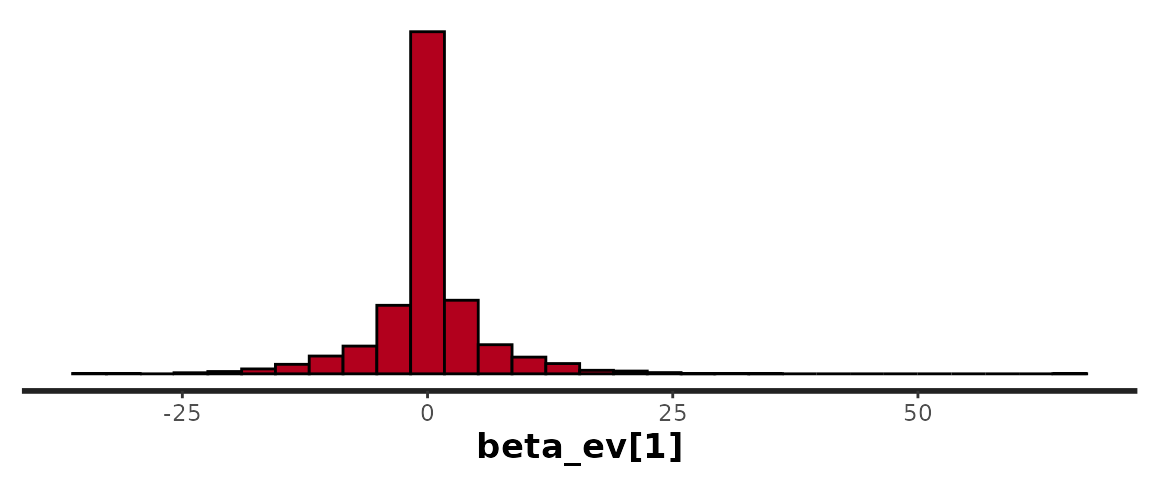
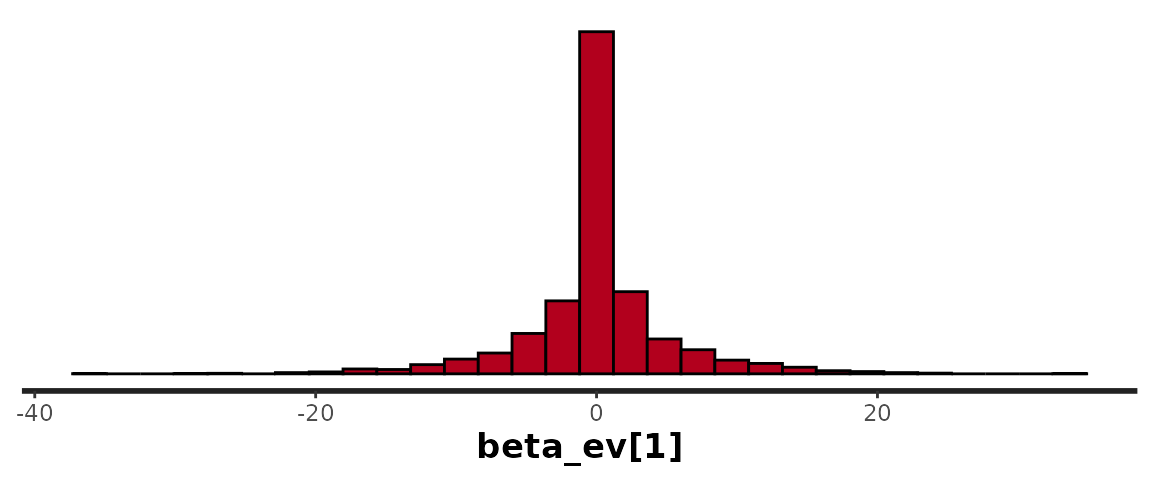
doc CAR

diff --git a/docs/reference/stan_car.html b/docs/reference/stan_car.html
@@ -47,7 +47,7 @@
 
 
 <meta property="og:title" content="Conditional auto-regressive (CAR) models — stan_car" />
-<meta property="og:description" content="Apply the CAR model as a prior on parameters." />
+<meta property="og:description" content="Apply the CAR model as a prior on parameters, or fit an auto Gaussian model." />
 <meta property="og:image" content="https://connordonegan.github.io/geostan/logo.png" />
 
 
@@ -147,7 +147,7 @@
     </div>
 
     <div class="ref-description">
-    <p>Apply the CAR model as a prior on parameters.</p>
+    <p>Apply the CAR model as a prior on parameters, or fit an auto Gaussian model.</p>
     </div>
 
     <pre class="usage"><span class='fu'>stan_car</span><span class='op'>(</span>
@@ -158,7 +158,8 @@
   ME <span class='op'>=</span> <span class='cn'>NULL</span>,
   <span class='va'>C</span>,
   D_diagonal <span class='op'>=</span> <span class='fu'><a href='https://rdrr.io/r/base/apply.html'>apply</a></span><span class='op'>(</span><span class='va'>C</span>, <span class='fl'>1</span>, <span class='kw'>function</span><span class='op'>(</span><span class='va'>r</span><span class='op'>)</span> <span class='fu'><a href='https://rdrr.io/r/base/sum.html'>sum</a></span><span class='op'>(</span><span class='va'>r</span> <span class='op'>&gt;</span> <span class='fl'>0</span><span class='op'>)</span><span class='op'>)</span>,
-  family <span class='op'>=</span> <span class='fu'><a href='https://rdrr.io/r/stats/family.html'>poisson</a></span><span class='op'>(</span><span class='op'>)</span>,
+  family <span class='op'>=</span> <span class='fu'><a href='https://rdrr.io/r/stats/family.html'>gaussian</a></span><span class='op'>(</span><span class='op'>)</span>,
+  invert <span class='op'>=</span> <span class='cn'>TRUE</span>,
   prior <span class='op'>=</span> <span class='cn'>NULL</span>,
   prior_intercept <span class='op'>=</span> <span class='cn'>NULL</span>,
   prior_tau <span class='op'>=</span> <span class='cn'>NULL</span>,
@@ -167,8 +168,8 @@
   scalex <span class='op'>=</span> <span class='cn'>FALSE</span>,
   prior_only <span class='op'>=</span> <span class='cn'>FALSE</span>,
   chains <span class='op'>=</span> <span class='fl'>5</span>,
-  iter <span class='op'>=</span> <span class='fl'>10000</span>,
-  refresh <span class='op'>=</span> <span class='fl'>2500</span>,
+  iter <span class='op'>=</span> <span class='fl'>4000</span>,
+  refresh <span class='op'>=</span> <span class='fl'>1000</span>,
   pars <span class='op'>=</span> <span class='cn'>NULL</span>,
   control <span class='op'>=</span> <span class='fu'><a href='https://rdrr.io/r/base/list.html'>list</a></span><span class='op'>(</span>adapt_delta <span class='op'>=</span> <span class='fl'>0.9</span>, max_treedepth <span class='op'>=</span> <span class='fl'>15</span><span class='op'>)</span>,
   silent <span class='op'>=</span> <span class='cn'>FALSE</span>,
@@ -202,13 +203,13 @@ If and when setting priors for <code>beta</code> manually, remember to include p
 <dt>se</dt><dd><p>a dataframe with standard errors for each observation; columns will be matched to the variables by column names. The names should match those from the output of <code><a href='https://rdrr.io/r/stats/model.matrix.html'>model.matrix(formula, data)</a></code>.</p></dd>
 <dt>bounded</dt><dd><p>If any variables in <code>se</code> are bounded within some range (e.g. percentages ranging from zero to one hundred) provide a vector of zeros and ones indicating which columns are bounded. By default the lower bound will be 0 and the upper bound 100, for percentages.</p></dd>
 <dt>bounds</dt><dd><p>A numeric vector of length two providing the upper and lower bounds, respectively, of any bounded variables.</p></dd>
-<dt>spatial</dt><dd><p>Logical value indicating whether an auto Gaussian (i.e., conditional autoregressive (CAR)) model should be used for the covariates. Defaults to <code>spatial = FALSE</code>. If <code>spatial = TRUE</code> you must provide a connectivity matrix <code>C</code>. The specification of the auto Gaussian model is fixed such that all non-zero values in <code>C</code> will be converted to ones.</p></dd>
+<dt>spatial</dt><dd><p>Logical value indicating whether an auto Gaussian (i.e., conditional autoregressive (CAR)) model should be used for the covariates. Defaults to <code>spatial = FALSE</code>. The specification of the auto Gaussian model is fixed such that any non-zero values in <code>C</code> will be converted to ones.</p></dd>
 
 </dl></td>
     </tr>
     <tr>
       <th>C</th>
-      <td><p>Binary spatial connectivity matrix. This is used for the CAR prior and to calculate residual spatial autocorrelation as well as any user specified <code>slx</code> terms (it will be row-standardized before calculating <code>slx</code> terms).</p></td>
+      <td><p>Spatial connectivity matrix. This is used for the CAR model and to calculate residual spatial autocorrelation as well as any user specified <code>slx</code> terms or spatial measurement error (ME) models. It will automatically be row-standardized before calculating <code>slx</code> terms.</p></td>
     </tr>
     <tr>
       <th>D_diagonal</th>
@@ -216,11 +217,15 @@ If and when setting priors for <code>beta</code> manually, remember to include p
     </tr>
     <tr>
       <th>family</th>
-      <td><p>The likelihood function for the outcome variable. Current options are <code><a href='https://rdrr.io/r/stats/family.html'>binomial(link = "logit")</a></code> and <code><a href='https://rdrr.io/r/stats/family.html'>poisson(link = "log")</a></code>.</p></td>
+      <td><p>The likelihood function for the outcome variable. Current options are <code><a href='https://rdrr.io/r/stats/family.html'>gaussian()</a></code>, <code><a href='https://rdrr.io/r/stats/family.html'>binomial(link = "logit")</a></code>, and <code><a href='https://rdrr.io/r/stats/family.html'>poisson(link = "log")</a></code>.</p></td>
+    </tr>
+    <tr>
+      <th>invert</th>
+      <td><p>To calculate the log likelihood of the data <code>log_lik</code> and the posterior predictive distribution <code>yrep</code>, the precision matrix needs to be inverted. This can be costly for large data sets---the inversion needs to be completed once per posterior sample. To avoid the computational cost, set <code>invert = FALSE</code>.</p></td>
     </tr>
     <tr>
       <th>prior</th>
-      <td><p>A <code>data.frame</code> or <code>matrix</code> with location and scale parameters for Gaussian prior distributions on the model coefficients. Provide two columns---location and scale---and a row for each variable in their order of appearance in the model formula. Default priors are weakly informative relative to the scale of the data.</p></td>
+      <td><p>A <code>data.frame</code> or <code>matrix</code> with location and scale parameters for Gaussian prior distributions on the regression coefficients. Provide two columns---location and scale---and a row for each variable in their order of appearance in the model formula. Default priors are weakly informative relative to the scale of the data.</p></td>
     </tr>
     <tr>
       <th>prior_intercept</th>
@@ -228,11 +233,11 @@ If and when setting priors for <code>beta</code> manually, remember to include p
     </tr>
     <tr>
       <th>prior_tau</th>
-      <td><p>Set hyperparameters for the scale parameter of varying intercepts <code>alpha_re</code>. The varying intercepts are given a normal prior with scale parameter <code>alpha_tau</code>. The latter is given a half-Student's t prior with default of 20 degrees of freedom, centered on zero and scaled to the data to be weakly informative. To adjust it use, e.g., <code>prior_tau = c(df = 15, location = 0, scale = 5)</code>.</p></td>
+      <td><p>Set hyperparameters for the scale parameter of varying intercepts <code>alpha_re</code>. The varying intercepts are given a normal prior with scale parameter <code>alpha_tau</code>. <code>alpha_tau</code> is given a half-Student's t prior with default of 20 degrees of freedom, centered on zero and scaled to the data to be weakly informative. To adjust it use, e.g., <code>prior_tau = c(df = 15, location = 0, scale = 5)</code>.</p></td>
     </tr>
     <tr>
       <th>prior_car_scale</th>
-      <td><p>Hyperprior parameters for the scale of the CAR model. The scale is assigned a Student's t prior model; to set a custom prior provide a length-three vector with the degrees of freedom, location, and scale parameters. E.g., <code>prior_car_scale = c(df = 15, location = 0, scale = 2)</code>.</p></td>
+      <td><p>Hyperprior parameters for the scale of the CAR model <code>car_scale</code>. The scale is assigned a Student's t prior model; to set its parameter values provide a length-three vector with the degrees of freedom, location, and scale parameters. E.g., <code>prior_car_scale = c(df = 15, location = 0, scale = 2)</code>.</p></td>
     </tr>
     <tr>
       <th>centerx</th>
@@ -248,7 +253,7 @@ If and when setting priors for <code>beta</code> manually, remember to include p
     </tr>
     <tr>
       <th>chains</th>
-      <td><p>Number of MCMC chains to estimate.</p></td>
+      <td><p>Number of MCMC chains to use.</p></td>
     </tr>
     <tr>
       <th>iter</th>
@@ -304,7 +309,7 @@ If and when setting priors for <code>beta</code> manually, remember to include p
 
     <p>The CAR model is specified as follows:</p>
 <p><code>Y ~ MVGauss(Mu, scale^2 * (D - alpha * C)^-1)</code></p>
-<p>where <code>Y</code> may be data or parameters and <code>Mu</code> is the mean vector. When <code>Y</code> is a vector of parameters, <code>Mu</code> is a vector of zeroes. <code>C</code> is a connectivity matrix (often binary) and <code>D</code> is a matrix with diagonal entries that scale each observation. So an observation corresponding to a diagonal element of <code>D</code> that has larger values relative to other <code>D</code> elements will have smaller variance in the prior probability. There are two parameters to estimate: <code>alpha</code> which controls the degree of spatial autocorrelation (and thus the amount of spatial smoothing) and the scale parameter <code>scale</code> (<code>scale = 1/sqrt(precision)</code>).</p>
+<p>where <code>Y</code> may be data or parameters and <code>Mu</code> is the mean vector. When <code>Y</code> is a vector of parameters, <code>Mu</code> will be set to a vector of zeroes. <code>C</code> is a spatial connectivity matrix and <code>D</code> is a diagonal matrix with diagonal entries that scale each observation. So an observation corresponding to a diagonal element of <code>D</code> that has larger values relative to other <code>D</code> elements will have smaller variance in the prior probability. There are two parameters to estimate: <code>alpha</code> which controls the degree of spatial autocorrelation and the scale parameter <code>scale</code> (<code>scale = 1/sqrt(precision)</code>).</p>
 <p>These models are discussed in Haining and Li (2020, p. 249-51) and Cressie and Wikle (2011, p. 184-88). The Stan code for the model draws from Joseph (2016) to calculate the determinant of the precision matrix (see Haining and Li, p. 250) up to a constant of proportionality.</p>
     <h2 class="hasAnchor" id="author"><a class="anchor" href="#author"></a>Author</h2>
 
@@ -339,6 +344,19 @@ If and when setting priors for <code>beta</code> manually, remember to include p
   <span class='fu'><a href='https://ggplot2.tidyverse.org/reference/ggplot.html'>ggplot</a></span><span class='op'>(</span><span class='op'>)</span> <span class='op'>+</span>
   <span class='fu'><a href='https://ggplot2.tidyverse.org/reference/ggsf.html'>geom_sf</a></span><span class='op'>(</span><span class='fu'><a href='https://ggplot2.tidyverse.org/reference/aes.html'>aes</a></span><span class='op'>(</span>fill <span class='op'>=</span> <span class='va'>sp.trend</span><span class='op'>)</span><span class='op'>)</span> <span class='op'>+</span>
   <span class='fu'><a href='https://ggplot2.tidyverse.org/reference/scale_gradient.html'>scale_fill_gradient2</a></span><span class='op'>(</span><span class='op'>)</span>
+
+<span class='co'>## auto Gaussian model: with spatially lagged covariates and a spatial measurement error model for the survey data</span>
+<span class='fu'><a href='https://rdrr.io/r/utils/data.html'>data</a></span><span class='op'>(</span><span class='va'>ohio</span><span class='op'>)</span>
+<span class='va'>fit.car</span> <span class='op'>=</span> <span class='fu'>stan_car</span><span class='op'>(</span><span class='va'>gop_growth</span> <span class='op'>~</span> <span class='va'>historic_gop</span> <span class='op'>+</span> <span class='va'>college_educated</span>,
+                   slx <span class='op'>=</span> <span class='op'>~</span> <span class='va'>historic_gop</span> <span class='op'>+</span> <span class='va'>college_educated</span>,
+                   ME <span class='op'>=</span> <span class='fu'><a href='https://rdrr.io/r/base/list.html'>list</a></span><span class='op'>(</span>se <span class='op'>=</span> <span class='fu'><a href='https://rdrr.io/r/base/data.frame.html'>data.frame</a></span><span class='op'>(</span>college_educated <span class='op'>=</span> <span class='va'>ohio</span><span class='op'>$</span><span class='va'>college_educated.se</span><span class='op'>)</span>,
+                             spatial <span class='op'>=</span> <span class='cn'>TRUE</span><span class='op'>)</span>,
+                   data <span class='op'>=</span> <span class='va'>ohio</span>,
+                   centerx <span class='op'>=</span> <span class='cn'>TRUE</span>,
+                   C <span class='op'>=</span> <span class='fu'><a href='shape2mat.html'>shape2mat</a></span><span class='op'>(</span><span class='va'>ohio</span><span class='op'>)</span>,
+                   family <span class='op'>=</span> <span class='fu'><a href='https://rdrr.io/r/stats/family.html'>gaussian</a></span><span class='op'>(</span><span class='op'>)</span>
+                   <span class='op'>)</span>
+<span class='fu'><a href='https://rdrr.io/r/base/print.html'>print</a></span><span class='op'>(</span><span class='va'>fit.car</span><span class='op'>)</span>
  <span class='op'>}</span>
 
 </div></pre>

diff --git a/docs/articles/setting-priors.html b/docs/articles/setting-priors.html
@@ -112,7 +112,7 @@
 <a href="#getting-started" class="anchor"></a>Getting started</h2>
 <p>Load the <strong>geostan</strong>, <strong>ggplot2</strong>, and <strong>sf</strong> packages:</p>
 <div class="sourceCode" id="cb1"><pre class="downlit sourceCode r">
-<code class="sourceCode R"><span class="kw"><a href="https://rdrr.io/r/base/library.html">library</a></span><span class="op">(</span><span class="va">geostan</span><span class="op">)</span>
+<code class="sourceCode R"><span class="kw"><a href="https://rdrr.io/r/base/library.html">library</a></span><span class="op">(</span><span class="va"><a href="https://connordonegan.github.io/geostan">geostan</a></span><span class="op">)</span>
 <span class="kw"><a href="https://rdrr.io/r/base/library.html">library</a></span><span class="op">(</span><span class="va"><a href="https://ggplot2.tidyverse.org">ggplot2</a></span><span class="op">)</span>
 <span class="kw"><a href="https://rdrr.io/r/base/library.html">library</a></span><span class="op">(</span><span class="va"><a href="https://r-spatial.github.io/sf/">sf</a></span><span class="op">)</span>  
 <span class="co">#&gt; Linking to GEOS 3.8.0, GDAL 3.0.4, PROJ 6.3.1</span></code></pre></div>
@@ -122,17 +122,17 @@
 <span class="va">folder</span> <span class="op">&lt;-</span> <span class="fu"><a href="https://rdrr.io/r/base/tempfile.html">tempdir</a></span><span class="op">(</span><span class="op">)</span>
 <span class="va">url</span> <span class="op">&lt;-</span> <span class="st">"https://geodacenter.github.io/data-and-lab//data/nepal.zip"</span>
 <span class="fu"><a href="../reference/get_shp.html">get_shp</a></span><span class="op">(</span><span class="va">url</span>, <span class="va">folder</span><span class="op">)</span>
-<span class="co">#&gt; [1] "/tmp/RtmpaDOIxM/callr-env-4235a80cf89"</span>
-<span class="co">#&gt; [2] "/tmp/RtmpaDOIxM/file42352360ddb1.so"  </span>
-<span class="co">#&gt; [3] "/tmp/RtmpaDOIxM/file423526d8ebbd"     </span>
-<span class="co">#&gt; [4] "/tmp/RtmpaDOIxM/file4235311bbe49.zip" </span>
-<span class="co">#&gt; [5] "/tmp/RtmpaDOIxM/file42353f7d32ec"     </span>
-<span class="co">#&gt; [6] "/tmp/RtmpaDOIxM/nepal.dbf"            </span>
-<span class="co">#&gt; [7] "/tmp/RtmpaDOIxM/nepal.prj"            </span>
-<span class="co">#&gt; [8] "/tmp/RtmpaDOIxM/nepal.shp"            </span>
-<span class="co">#&gt; [9] "/tmp/RtmpaDOIxM/nepal.shx"</span>
+<span class="co">#&gt; [1] "/tmp/RtmpbML092/callr-env-d0da21851aa7"</span>
+<span class="co">#&gt; [2] "/tmp/RtmpbML092/filed0da1364a14e.zip"  </span>
+<span class="co">#&gt; [3] "/tmp/RtmpbML092/filed0da2bd7a90c"      </span>
+<span class="co">#&gt; [4] "/tmp/RtmpbML092/filed0da33b45a90"      </span>
+<span class="co">#&gt; [5] "/tmp/RtmpbML092/filed0da400c4f89.so"   </span>
+<span class="co">#&gt; [6] "/tmp/RtmpbML092/nepal.dbf"             </span>
+<span class="co">#&gt; [7] "/tmp/RtmpbML092/nepal.prj"             </span>
+<span class="co">#&gt; [8] "/tmp/RtmpbML092/nepal.shp"             </span>
+<span class="co">#&gt; [9] "/tmp/RtmpbML092/nepal.shx"</span>
 <span class="va">nepal</span> <span class="op">&lt;-</span> <span class="fu"><a href="https://r-spatial.github.io/sf/reference/st_read.html">st_read</a></span><span class="op">(</span><span class="va">folder</span>, <span class="st">"nepal"</span><span class="op">)</span>
-<span class="co">#&gt; Reading layer `nepal' from data source `/tmp/RtmpaDOIxM' using driver `ESRI Shapefile'</span>
+<span class="co">#&gt; Reading layer `nepal' from data source `/tmp/RtmpbML092' using driver `ESRI Shapefile'</span>
 <span class="co">#&gt; Simple feature collection with 75 features and 61 fields</span>
 <span class="co">#&gt; geometry type:  POLYGON</span>
 <span class="co">#&gt; dimension:      XY</span>
@@ -241,36 +241,36 @@
 <div class="sourceCode" id="cb12"><pre class="downlit sourceCode r">
 <code class="sourceCode R"><span class="co"># one at a time</span>
 <span class="fu"><a href="https://rdrr.io/r/base/mean.html">mean</a></span><span class="op">(</span><span class="va">sf</span><span class="op">[</span>,<span class="fl">1</span><span class="op">]</span><span class="op">)</span>
-<span class="co">#&gt; [1] 0.01584698</span>
+<span class="co">#&gt; [1] 0.005604544</span>
 
 <span class="co"># summarize them all: mean of each column</span>
 <span class="fu"><a href="https://rdrr.io/r/base/apply.html">apply</a></span><span class="op">(</span><span class="va">sf</span>, <span class="fl">2</span>, <span class="va">mean</span><span class="op">)</span>
 <span class="co">#&gt;       esf[1]       esf[2]       esf[3]       esf[4]       esf[5]       esf[6] </span>
-<span class="co">#&gt;  0.015846978  0.032736700  0.027176950 -0.031004264 -0.032303451  0.001798214 </span>
+<span class="co">#&gt;  0.005604544  0.099753847  0.124173662  0.055516379  0.006966836 -0.111662735 </span>
 <span class="co">#&gt;       esf[7]       esf[8]       esf[9]      esf[10]      esf[11]      esf[12] </span>
-<span class="co">#&gt; -0.011429275  0.011165666 -0.023067399  0.007699013  0.018116558  0.042590310 </span>
+<span class="co">#&gt; -0.046304186  0.027745474  0.002986876 -0.077657273 -0.067330926 -0.001412311 </span>
 <span class="co">#&gt;      esf[13]      esf[14]      esf[15]      esf[16]      esf[17]      esf[18] </span>
-<span class="co">#&gt;  0.005322756  0.018499418  0.016052580  0.003085228  0.024252635  0.012015868 </span>
+<span class="co">#&gt; -0.022472513  0.046268155 -0.022316090  0.067604420 -0.008858060  0.014489476 </span>
 <span class="co">#&gt;      esf[19]      esf[20]      esf[21]      esf[22]      esf[23]      esf[24] </span>
-<span class="co">#&gt;  0.059372946  0.045126263  0.053797403  0.049161517  0.011103338 -0.142624643 </span>
+<span class="co">#&gt;  0.010364167 -0.035743584 -0.015271916  0.006296843 -0.083780851 -0.018853366 </span>
 <span class="co">#&gt;      esf[25]      esf[26]      esf[27]      esf[28]      esf[29]      esf[30] </span>
-<span class="co">#&gt;  0.016373185  0.109728125 -0.053964105  0.045647390  0.046485792  0.090415175 </span>
+<span class="co">#&gt; -0.018768568  0.035413668 -0.037544431  0.016986654 -0.038706360  0.032789499 </span>
 <span class="co">#&gt;      esf[31]      esf[32]      esf[33]      esf[34]      esf[35]      esf[36] </span>
-<span class="co">#&gt;  0.062244374  0.108245693  0.042990624 -0.153858167 -0.094783357  0.024937570 </span>
+<span class="co">#&gt;  0.033327639 -0.004123425 -0.033844966  0.006601262  0.036545788  0.006975131 </span>
 <span class="co">#&gt;      esf[37]      esf[38]      esf[39]      esf[40]      esf[41]      esf[42] </span>
-<span class="co">#&gt;  0.012532259 -0.124201485 -0.073640391 -0.014509610  0.017061410 -0.024326137 </span>
+<span class="co">#&gt; -0.009999150  0.032477825 -0.004577462 -0.003081360  0.016964719 -0.014372863 </span>
 <span class="co">#&gt;      esf[43]      esf[44]      esf[45]      esf[46]      esf[47]      esf[48] </span>
-<span class="co">#&gt;  0.019712582  0.048694525 -0.026255648  0.020579427  0.013370513  0.006279352 </span>
+<span class="co">#&gt;  0.011156479  0.035463235 -0.020718030 -0.013541166  0.026909351  0.023964420 </span>
 <span class="co">#&gt;      esf[49]      esf[50]      esf[51]      esf[52]      esf[53]      esf[54] </span>
-<span class="co">#&gt; -0.063050822 -0.048581575  0.051819315  0.049902123  0.010109063  0.059919931 </span>
+<span class="co">#&gt; -0.030660555 -0.012237111  0.023917379 -0.019059538  0.021305502  0.027191698 </span>
 <span class="co">#&gt;      esf[55]      esf[56]      esf[57]      esf[58]      esf[59]      esf[60] </span>
-<span class="co">#&gt; -0.009841617  0.049236371  0.065448331  0.035836022 -0.048247434 -0.008258472 </span>
+<span class="co">#&gt; -0.033736774 -0.026990088 -0.010521271 -0.034877217 -0.030707039 -0.026766331 </span>
 <span class="co">#&gt;      esf[61]      esf[62]      esf[63]      esf[64]      esf[65]      esf[66] </span>
-<span class="co">#&gt; -0.004106201  0.032247481 -0.045014837 -0.020078697 -0.052465908 -0.035264679 </span>
+<span class="co">#&gt; -0.050696005 -0.011589156 -0.052117513 -0.018296818  0.101904396  0.057596210 </span>
 <span class="co">#&gt;      esf[67]      esf[68]      esf[69]      esf[70]      esf[71]      esf[72] </span>
-<span class="co">#&gt; -0.003599268 -0.075971467 -0.067201224 -0.017959183 -0.036614594 -0.041187154 </span>
+<span class="co">#&gt;  0.127902871  0.007802455 -0.024063517  0.020316004  0.001003458 -0.008267381 </span>
 <span class="co">#&gt;      esf[73]      esf[74]      esf[75] </span>
-<span class="co">#&gt; -0.024384697 -0.064091267 -0.022849948</span></code></pre></div>
+<span class="co">#&gt; -0.046929012 -0.027423448  0.003594044</span></code></pre></div>
 <p>By contrast, each row is a draw from the <em>joint</em> probability distribution of the spatial filter. Each of the coefficients has the same marginal probability as <code>beta_ev[1]</code>. But samples from the joint distribution show that the horseshoe prior assigns high probability to the presence of positive spatial autocorrelation (without favoring any particular pattern). Each of the samples exhibit a different pattern, arising from various linear combinations of eigenvectors:</p>
 <div class="sourceCode" id="cb13"><pre class="downlit sourceCode r">
 <code class="sourceCode R"><span class="va">n.samples</span> <span class="op">&lt;-</span> <span class="fu"><a href="https://rdrr.io/r/base/nrow.html">nrow</a></span><span class="op">(</span><span class="va">sf</span><span class="op">)</span>

diff --git a/docs/reference/stan_icar.html b/docs/reference/stan_icar.html
@@ -211,13 +211,13 @@ If and when setting priors for <code>beta</code> manually, remember to include p
 <dt>se</dt><dd><p>a dataframe with standard errors for each observation; columns will be matched to the variables by column names. The names should match those from the output of <code><a href='https://rdrr.io/r/stats/model.matrix.html'>model.matrix(formula, data)</a></code>.</p></dd>
 <dt>bounded</dt><dd><p>If any variables in <code>se</code> are bounded within some range (e.g. percentages ranging from zero to one hundred) provide a vector of zeros and ones indicating which columns are bounded. By default the lower bound will be 0 and the upper bound 100, for percentages.</p></dd>
 <dt>bounds</dt><dd><p>A numeric vector of length two providing the upper and lower bounds, respectively, of any bounded variables.</p></dd>
-<dt>spatial</dt><dd><p>Logical value indicating whether an auto Gaussian (i.e., conditional autoregressive (CAR)) model should be used for the covariates. Defaults to <code>spatial = FALSE</code>. If <code>spatial = TRUE</code> you must provide a connectivity matrix <code>C</code>. The specification of the auto Gaussian model is fixed such that all non-zero values in <code>C</code> will be converted to ones.</p></dd>
+<dt>spatial</dt><dd><p>Logical value indicating whether an auto Gaussian (i.e., conditional autoregressive (CAR)) model should be used for the covariates. Defaults to <code>spatial = FALSE</code>. The specification of the auto Gaussian model is fixed such that any non-zero values in <code>C</code> will be converted to ones.</p></dd>
 
 </dl></td>
     </tr>
     <tr>
       <th>C</th>
-      <td><p>Spatial connectivity matrix which will be used to construct an edge list, and to calculate residual spatial autocorrelation as well as any user specified <code>slx</code> terms; it will be row-standardized before calculating <code>slx</code> terms. <code>C</code> must be a symmetric <code>n x n</code> matrix with entries between 0 and 1. The binary coding scheme is generally a good default and can be obtained using <code><a href='shape2mat.html'>shape2mat(shape, style = "B")</a></code>.</p></td>
+      <td><p>Spatial connectivity matrix which will be used to construct an edge list for the ICAR model, and to calculate residual spatial autocorrelation as well as any user specified <code>slx</code> terms or spatial measurement error (ME) models. It will automatically be row-standardized before calculating <code>slx</code> terms. <code>C</code> must be a binary symmetric <code>n x n</code> matrix.</p></td>
     </tr>
     <tr>
       <th>family</th>

diff --git a/docs/articles/measuring-sa.html b/docs/articles/measuring-sa.html
@@ -187,7 +187,7 @@
 <code class="sourceCode R"><span class="va">x</span> <span class="op">&lt;-</span> <span class="fu"><a href="../reference/sim_sar.html">sim_sar</a></span><span class="op">(</span>w <span class="op">=</span> <span class="va">W</span>, rho <span class="op">=</span> <span class="fl">0.7</span><span class="op">)</span>
 
 <span class="fu"><a href="../reference/aple.html">aple</a></span><span class="op">(</span><span class="va">x</span>, <span class="va">W</span><span class="op">)</span>
-<span class="co">#&gt; [1] 0.74</span>
+<span class="co">#&gt; [1] 0.622</span>
 
 <span class="fu"><a href="https://ggplot2.tidyverse.org/reference/ggplot.html">ggplot</a></span><span class="op">(</span><span class="va">ohio</span><span class="op">)</span> <span class="op">+</span>
   <span class="fu"><a href="https://ggplot2.tidyverse.org/reference/ggsf.html">geom_sf</a></span><span class="op">(</span><span class="fu"><a href="https://ggplot2.tidyverse.org/reference/aes.html">aes</a></span><span class="op">(</span>fill <span class="op">=</span> <span class="va">x</span><span class="op">)</span><span class="op">)</span> <span class="op">+</span>
@@ -199,7 +199,7 @@
 <span class="fu"><a href="https://rdrr.io/r/base/dim.html">dim</a></span><span class="op">(</span><span class="va">X</span><span class="op">)</span>
 <span class="co">#&gt; [1]  5 88</span>
 <span class="fu"><a href="https://rdrr.io/r/base/apply.html">apply</a></span><span class="op">(</span><span class="va">X</span>, <span class="fl">1</span>, <span class="va">aple</span>, w <span class="op">=</span> <span class="va">W</span><span class="op">)</span>
-<span class="co">#&gt; [1] 0.643 0.525 0.711 0.701 0.701</span></code></pre></div>
+<span class="co">#&gt; [1] 0.769 0.757 0.720 0.722 0.668</span></code></pre></div>
 </div>
 <div id="spatial-diagnostics-with-sp_diag" class="section level2">
 <h2 class="hasAnchor">

diff --git a/docs/reference/aple.html b/docs/reference/aple.html
@@ -185,7 +185,7 @@
     <h2 class="hasAnchor" id="examples"><a class="anchor" href="#examples"></a>Examples</h2>
     <pre class="examples"><div class='input'>
 <span class='kw'><a href='https://rdrr.io/r/base/library.html'>library</a></span><span class='op'>(</span><span class='va'><a href='https://r-spatial.github.io/sf/'>sf</a></span><span class='op'>)</span>
-</div><div class='output co'>#&gt; <span class='message'>Linking to GEOS 3.8.0, GDAL 3.0.4, PROJ 6.3.1</span></div><div class='input'><span class='fu'><a href='https://rdrr.io/r/utils/data.html'>data</a></span><span class='op'>(</span><span class='va'>ohio</span><span class='op'>)</span>
+<span class='fu'><a href='https://rdrr.io/r/utils/data.html'>data</a></span><span class='op'>(</span><span class='va'>ohio</span><span class='op'>)</span>
 <span class='va'>w</span> <span class='op'>&lt;-</span> <span class='fu'><a href='shape2mat.html'>shape2mat</a></span><span class='op'>(</span><span class='va'>ohio</span>, <span class='st'>"W"</span><span class='op'>)</span>
 <span class='va'>x</span> <span class='op'>&lt;-</span> <span class='va'>ohio</span><span class='op'>$</span><span class='va'>unemployment</span>
 <span class='fu'>aple</span><span class='op'>(</span><span class='va'>x</span>, <span class='va'>w</span><span class='op'>)</span>

diff --git a/docs/reference/stan_glm.html b/docs/reference/stan_glm.html
@@ -209,7 +209,7 @@ If and when setting priors for <code>beta</code> manually, remember to include p
     </tr>
     <tr>
       <th>C</th>
-      <td><p>Optional spatial connectivity matrix which will be used to calculate residual spatial autocorrelation as well as any user specified <code>slx</code> or spatial <code>ME</code> terms; it will be row-standardized before calculating <code>slx</code> terms.</p></td>
+      <td><p>Optional spatial connectivity matrix which will be used to calculate residual spatial autocorrelation as well as any user specified <code>slx</code> or spatial measurement error (<code>ME</code>) terms; it will automatically be row-standardized before calculating <code>slx</code> terms.</p></td>
     </tr>
     <tr>
       <th>family</th>

diff --git a/docs/reference/stan_esf.html b/docs/reference/stan_esf.html
@@ -203,7 +203,7 @@ If and when setting priors for <code>beta</code> manually, remember to include p
     </tr>
     <tr>
       <th>C</th>
-      <td><p>Spatial connectivity matrix which will be used to calculate eigenvectors, residual spatial autocorrelation as well as any user specified <code>slx</code> terms; it will be row-standardized before calculating <code>slx</code> terms.</p></td>
+      <td><p>Spatial connectivity matrix which will be used to calculate eigenvectors, residual spatial autocorrelation as well as any user specified <code>slx</code> terms or spatial measurement error (ME) models; it will be row-standardized before calculating <code>slx</code> terms.</p></td>
     </tr>
     <tr>
       <th>EV</th>
